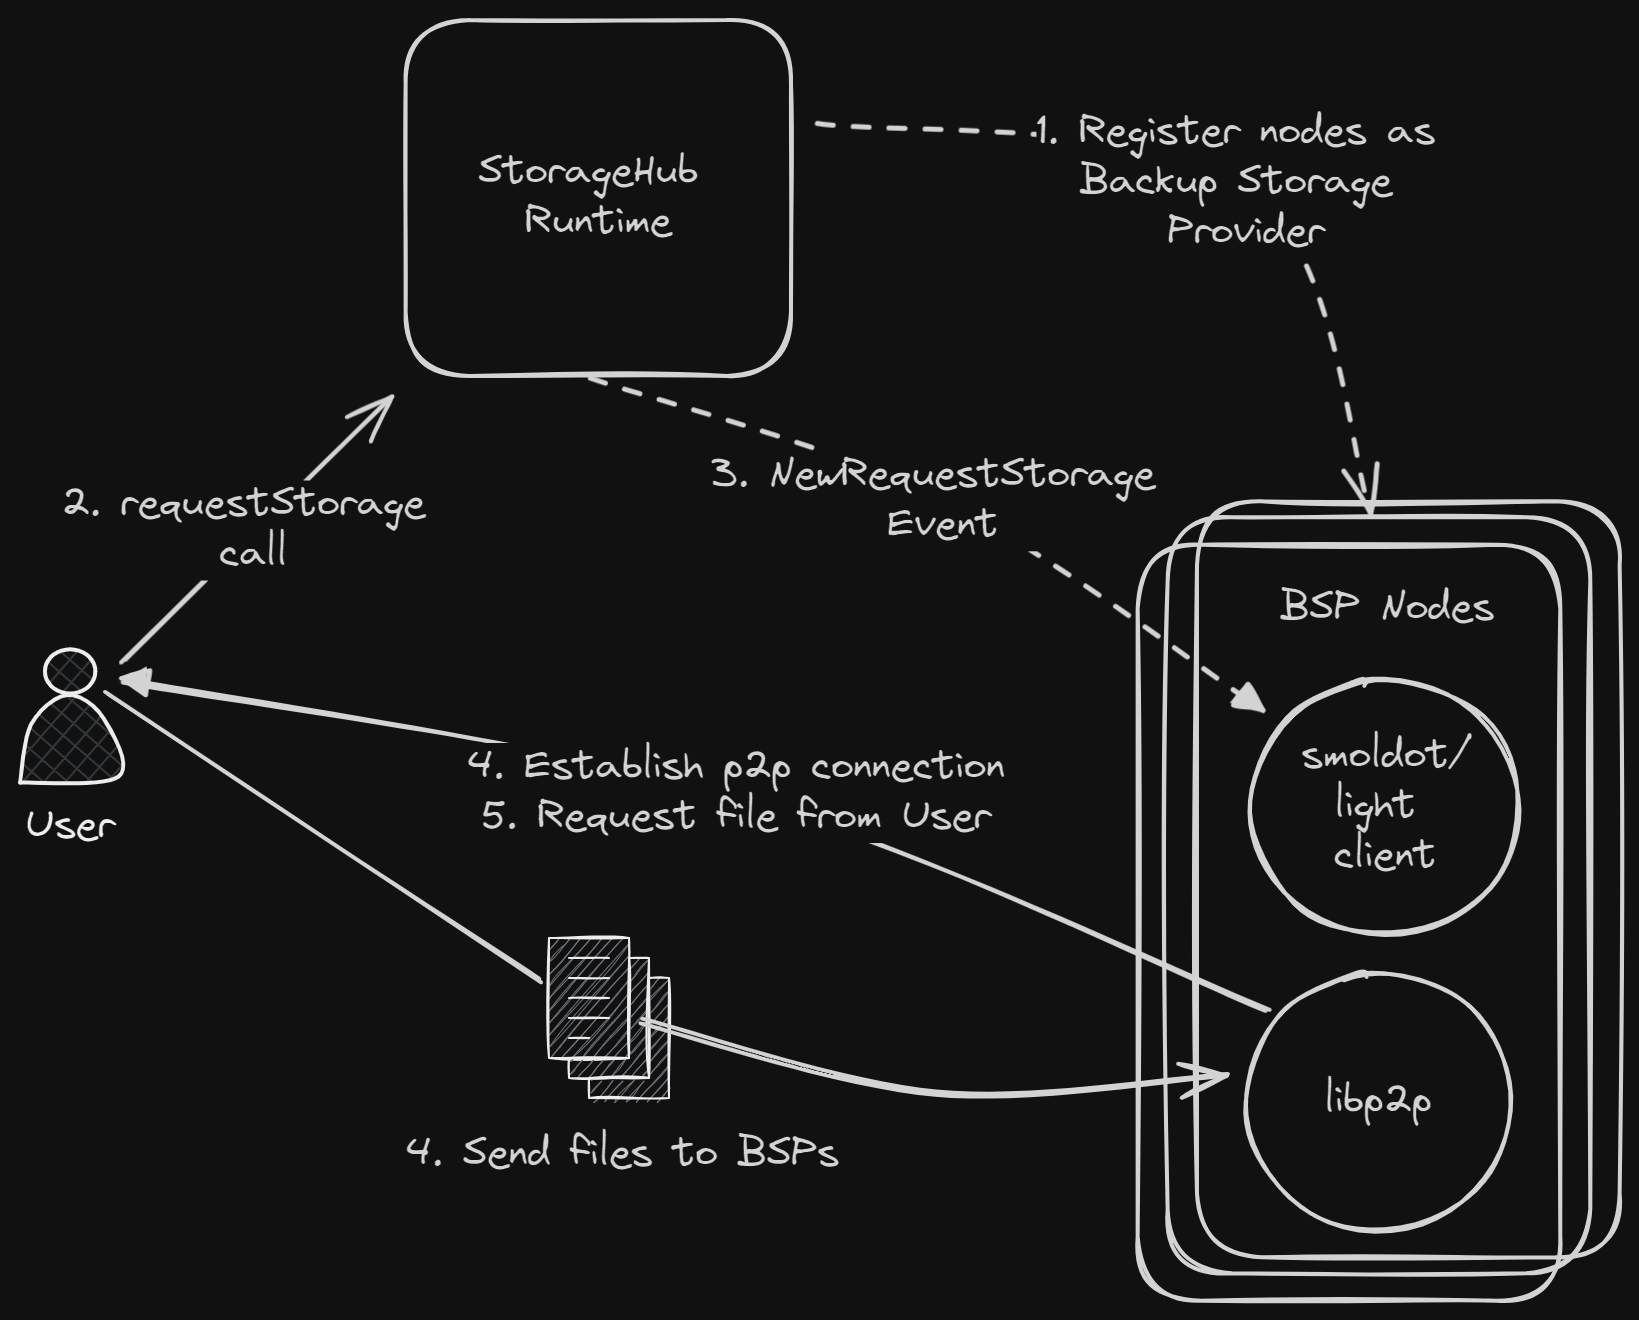
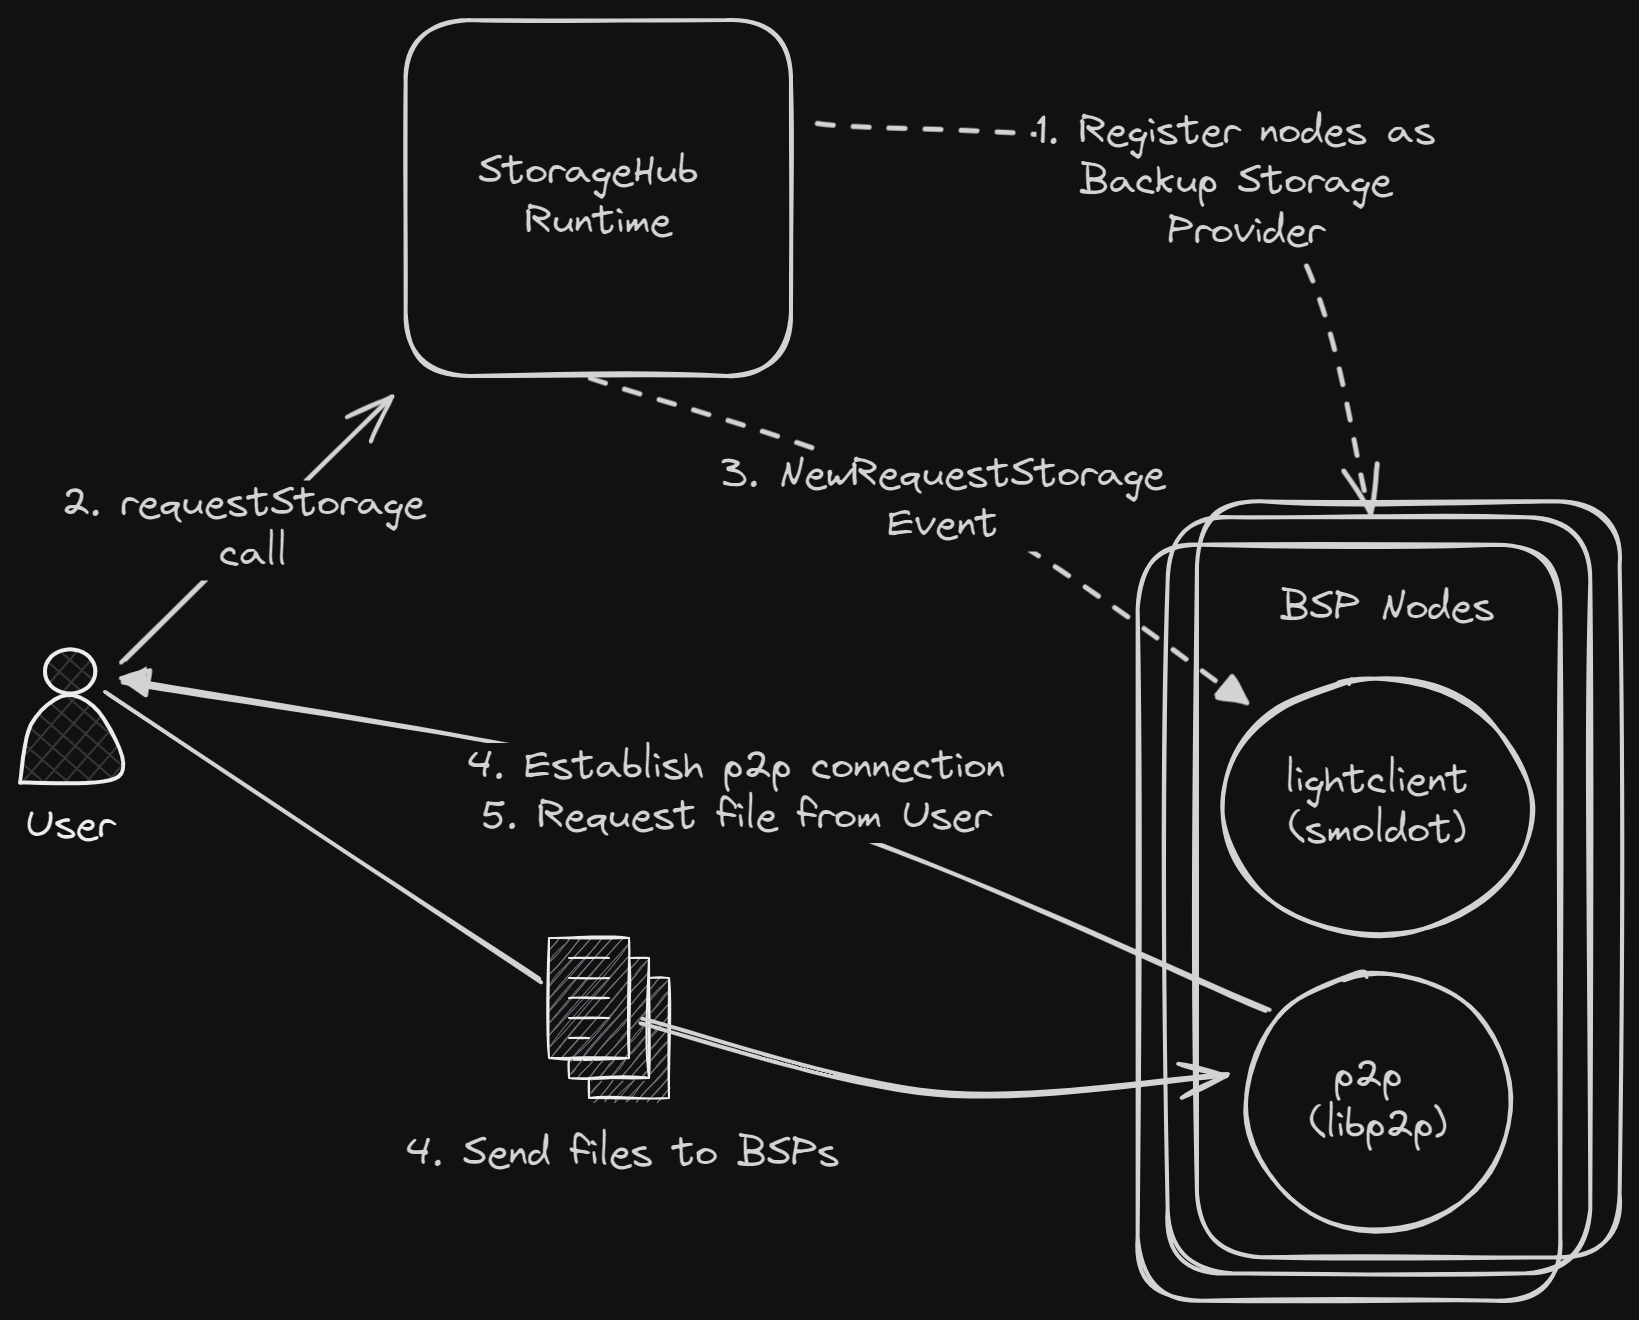
rename swarming mod to p2p, fix warnings, update architecture

diff --git a/storagehub-client-node/src/lightclient/client.rs b/storagehub-client-node/src/lightclient/client.rs
@@ -5,7 +5,7 @@ use sp_core::crypto;
 use subxt::{backend::rpc::RpcClient, rpc_params, Error, OnlineClient, PolkadotConfig};
 use tracing::{error, info, warn};
 
-use crate::{lightclient::support::ChainPrefix, options, swarming, Role};
+use crate::{lightclient::support::ChainPrefix, options, p2p, Role};
 
 use super::{errors::StorageHubError, local, support::SupportedRuntime};
 
@@ -30,7 +30,7 @@ pub(crate) struct Client {
 	/// The RPC client.
 	pub(crate) rpc_client: RpcClient,
 	/// The mpsc channel to send commands to the swarm.
-	pub(crate) command_sender: swarming::service::CommandSender,
+	pub(crate) command_sender: p2p::service::CommandSender,
 	/// The path where the files are downloaded.
 	pub(crate) download_path: String,
 }
@@ -40,7 +40,7 @@ impl Client {
 	pub(crate) async fn run(
 		run_as: Role,
 		config: options::LightClientOptions,
-		command_sender: swarming::service::CommandSender,
+		command_sender: p2p::service::CommandSender,
 		download_path: String,
 	) {
 		match run_as {
@@ -54,7 +54,7 @@ impl Client {
 	/// Create a new light client.
 	pub(crate) async fn new(
 		config: &options::LightClientOptions,
-		command_sender: swarming::service::CommandSender,
+		command_sender: p2p::service::CommandSender,
 		download_path: String,
 	) -> Self {
 		let ws_address = config.ws_address.clone().unwrap_or(config.chain.ws_address());
@@ -115,7 +115,7 @@ impl Client {
 
 	async fn run_as_bsp_provider(
 		config: options::LightClientOptions,
-		command_sender: swarming::service::CommandSender,
+		command_sender: p2p::service::CommandSender,
 		download_path: String,
 	) {
 		let mut n = 1_u32;

diff --git a/storagehub-client-node/src/lightclient/local.rs b/storagehub-client-node/src/lightclient/local.rs
@@ -15,7 +15,7 @@ use subxt::{
 use tokio::sync::oneshot;
 use tracing::{debug, error, info};
 
-use crate::{lightclient::client::DevAccounts, swarming};
+use crate::{lightclient::client::DevAccounts, p2p};
 
 use super::{client::Client, errors::StorageHubError};
 
@@ -62,7 +62,7 @@ pub(crate) async fn run(storage_hub: &mut Client) -> Result<(), StorageHubError>
 
 			storage_hub
 				.command_sender
-				.send(swarming::commands::NetworkCommand::Multiaddresses { channel: sender })
+				.send(p2p::commands::NetworkCommand::Multiaddresses { channel: sender })
 				.expect("Failed to send get multiaddresses command");
 			let multiaddresses = receiver.await.expect("Failed to receive multiaddresses");
 
@@ -118,7 +118,7 @@ pub(crate) async fn run(storage_hub: &mut Client) -> Result<(), StorageHubError>
 
 			storage_hub
 				.command_sender
-				.send(swarming::commands::NetworkCommand::ExternalDial {
+				.send(p2p::commands::NetworkCommand::ExternalDial {
 					multiaddr: sender_multiaddr.clone(),
 					channel: sender,
 				})
@@ -129,7 +129,7 @@ pub(crate) async fn run(storage_hub: &mut Client) -> Result<(), StorageHubError>
 
 			storage_hub
 				.command_sender
-				.send(swarming::commands::NetworkCommand::RequestFile {
+				.send(p2p::commands::NetworkCommand::RequestFile {
 					file_id: file_id.clone(),
 					peer_id: sender_peer_id,
 					multiaddr: sender_multiaddr,

diff --git a/storagehub-client-node/src/p2p/tests.rs b/storagehub-client-node/src/p2p/tests.rs
@@ -1,0 +1,32 @@
+#[tokio::test]
+async fn test_network_start() {
+	use std::time::Duration;
+
+	use libp2p::{futures::StreamExt, swarm::SwarmEvent};
+	use log::LevelFilter;
+	use simple_logger::SimpleLogger;
+	use tokio::time::timeout;
+	use tracing::{error, info};
+
+	use crate::Role;
+
+	use super::service::Service;
+
+	if let Err(err) = SimpleLogger::new().with_level(LevelFilter::Info).with_utc_timestamps().init()
+	{
+		error!("Logger already set {:?}:", err)
+	}
+	let mut service = Service::new(Role::User, 23456, "./tmp/files-to-upload".to_string())
+		.expect("Failed to create service");
+
+	loop {
+		if let SwarmEvent::NewListenAddr { address, .. } =
+			timeout(Duration::from_secs(5), service.swarm.select_next_some())
+				.await
+				.expect("event to be received")
+		{
+			info!("SwarmEvent::NewListenAddr: {address:?}");
+			break;
+		}
+	}
+}

diff --git a/storagehub-client-node/src/p2p/commands.rs b/storagehub-client-node/src/p2p/commands.rs
@@ -1,7 +1,6 @@
 use anyhow::Error;
 use libp2p::{Multiaddr, PeerId};
 use tokio::sync::{mpsc::UnboundedSender, oneshot};
-use tracing::info;
 
 use super::service::{FileRequest, Service};
 
@@ -48,7 +47,7 @@ impl Service {
 			NetworkCommand::RequestFile { file_id, peer_id, multiaddr, channel } => {
 				let swarm = self.swarm.behaviour_mut();
 
-				/// TODO remove this and add address from the `IdentifyEvent::Received` event.
+				// TODO remove this and add address from the `IdentifyEvent::Received` event.
 				swarm.request_response.add_address(&peer_id, multiaddr);
 				let request_id =
 					swarm.request_response.send_request(&peer_id, FileRequest(file_id));

diff --git a/storagehub-client-node/src/main.rs b/storagehub-client-node/src/main.rs
@@ -6,7 +6,7 @@ use tracing_subscriber::EnvFilter;
 
 mod lightclient;
 mod options;
-mod swarming;
+mod p2p;
 
 #[derive(ValueEnum, Clone, Debug)]
 pub enum Role {
@@ -21,7 +21,7 @@ async fn main() -> Result<(), Box<dyn Error>> {
 
 	let opts: Options = Options::parse();
 
-	let service = swarming::service::Service::new(
+	let service = p2p::service::Service::new(
 		opts.run_as.clone(),
 		opts.libp2p_options.port,
 		opts.upload_path,

diff --git a/storagehub-client-node/src/options.rs b/storagehub-client-node/src/options.rs
@@ -2,7 +2,7 @@ use clap::{Args, Parser};
 
 use crate::{
 	lightclient::{client::DevAccounts, support::SupportedRuntime},
-	swarming, Role,
+	p2p, Role,
 };
 
 #[derive(Parser, Debug)]
@@ -34,7 +34,7 @@ pub(crate) struct Options {
 #[derive(Args, Debug)]
 pub(crate) struct Libp2pOptions {
 	#[clap(long)]
-	pub(crate) port: swarming::service::Port,
+	pub(crate) port: p2p::service::Port,
 }
 
 #[derive(Args, Debug, Clone)]

diff --git a/storagehub-client-node/src/p2p/service.rs b/storagehub-client-node/src/p2p/service.rs
@@ -1,8 +1,7 @@
 use crate::Role;
 use anyhow::{anyhow, Result};
 use libp2p::{
-	futures::StreamExt, request_response::OutboundRequestId, swarm::NetworkBehaviour, Multiaddr,
-	Swarm,
+	futures::StreamExt, request_response::OutboundRequestId, swarm::NetworkBehaviour, Swarm,
 };
 use serde::{Deserialize, Serialize};
 use std::{collections::HashMap, error::Error, time::Duration};

diff --git a/storagehub-client-node/src/p2p/request_response.rs b/storagehub-client-node/src/p2p/request_response.rs
@@ -2,7 +2,7 @@ use anyhow::anyhow;
 use libp2p::request_response::{Event as RequestResponseEvent, Message};
 use tracing::{debug, error, warn};
 
-use crate::swarming::service::FileResponse;
+use crate::p2p::service::FileResponse;
 
 use super::service::{FileRequest, Service};
 

diff --git a/storagehub-client-node/src/p2p/identify.rs b/storagehub-client-node/src/p2p/identify.rs
@@ -1,7 +1,7 @@
 use libp2p::identify::Event as IdentifyEvent;
 use tracing::debug;
 
-use crate::swarming::service::REQUEST_RESPONSE_PROTOCOL_NAME;
+use crate::p2p::service::REQUEST_RESPONSE_PROTOCOL_NAME;
 
 use super::service::Service;
 

diff --git a/storagehub-client-node/src/p2p/swarm.rs b/storagehub-client-node/src/p2p/swarm.rs
@@ -1,4 +1,4 @@
-use crate::swarming::service::BehaviourEvent;
+use crate::p2p::service::BehaviourEvent;
 use libp2p::swarm::SwarmEvent;
 use tracing::debug;
 
